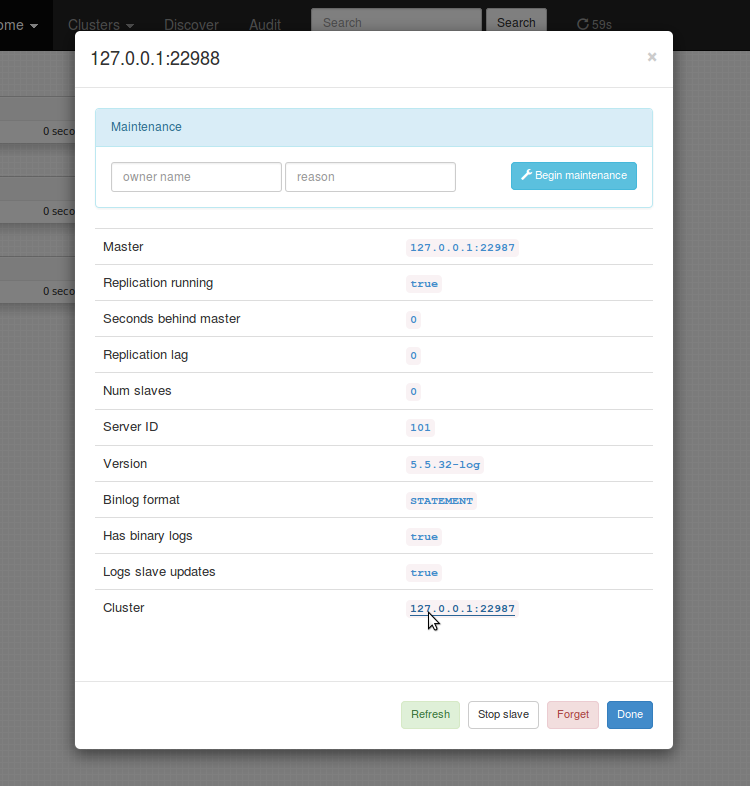
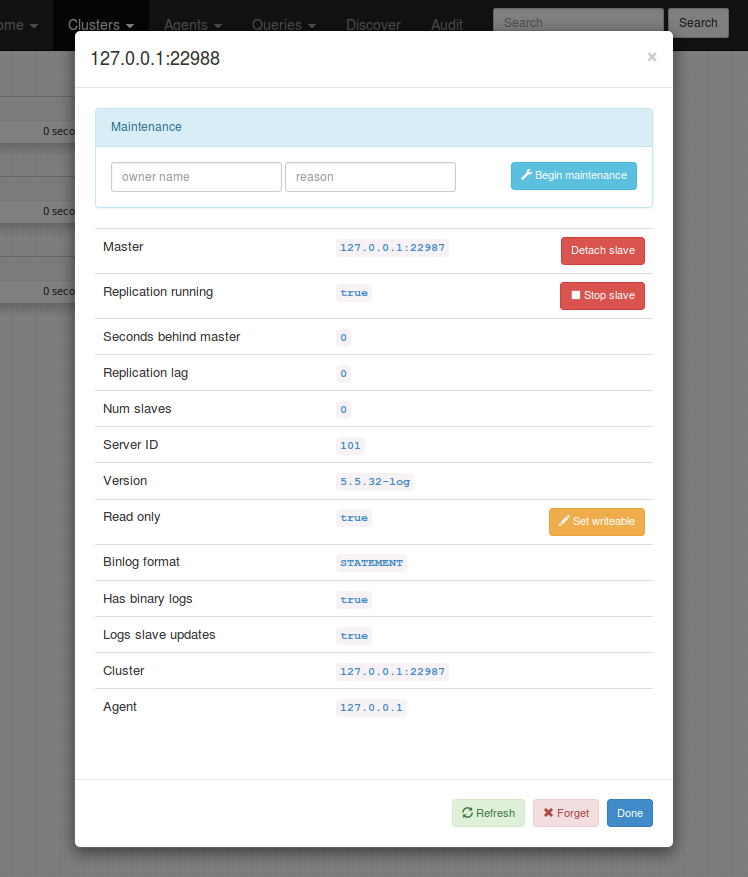
added doc for set-read-only, set-witeable

diff --git a/Orchestrator-Manual.md b/Orchestrator-Manual.md
@@ -413,6 +413,8 @@ The following is a brief listing of the web API exposed by _orchestrator_:
 * `/api/end-maintenance/:maintenanceKey` end maintenance on instance, based on maintenance key given on `begin-maintenance` 
 * `/api/start-slave/:host/:port`: issue a `START SLAVE` on an instance 
 * `/api/stop-slave/:host/:port`: issue a `STOP SLAVE` on an instance
+* `/api/set-read-only/:host/:port`: issue a `SET GLOBAL read_only := 1` on an instance
+* `/api/set-writeable/:host/:port`: issue a `SET GLOBAL read_only := 0` on an instance
 * `/api/kill-query/:host/:port/:process`: kill a query (denoted by process id) on given instance. Synchronous call. 
 * `/api/maintenance`: list instances in active maintenance mode
 * `/api/cluster/:clusterName`: list instances in a topology cluster. Each topology is automatically given a unique 
